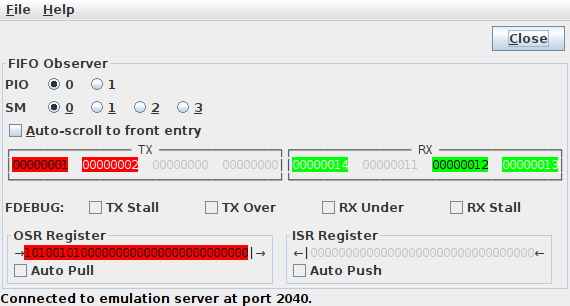
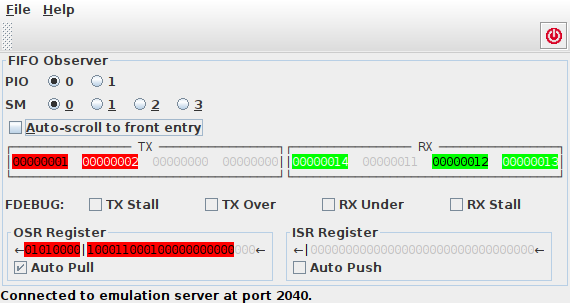
Update Website, Part 2
* Update more screenshots.
* Elaborate on more details
  of FIFO observer.
* Update documentation of
  GPIO Observer and add a
  few details about the
  GUI that were missing so
  far.
* Minor clarifications and
  fixes on various pages.

diff --git a/gpio-observer.rst b/gpio-observer.rst
@@ -3,9 +3,9 @@
 GPIO Observer
 =============
 
-The *GPIO Observer* serves as a simple example that illustrates how to
-implement a small emulation client.  Its sole purpose is to display
-the current status of all of the emulator's 32 GPIO pins.
+The *GPIO Observer*' displays the current status of all of the
+emulator's 32 GPIO pins from either a PIO's or an external point of
+perspective.
 
 The application is available as Jar file and can be executed from the
 command line via ::
@@ -16,21 +16,67 @@ with optional paramater ``-p`` to specify the server port to connect
 to.  Again, like as for the server, the default port is ``2040``, if
 not specified on the command line.
 
-For each GPIO pin, the application displays the pin's current pad
-value and pin direction with an LED-like symbol.  If a GPIO pin is
-programmed as input, it will be displayed as a green LED.  If a GPIO
-pin is programmed as output, it will be displayed as a red LED.  If
-the bit value of the pin is 1, it will be displayed with light color.
-If it is 0, it will be displayed with dark color.
-
 .. figure:: images/gpio-observer.png
    :scale: 80%
    :alt: GPIO Observer Application
 
    GPIO Observer Application
 
-   The GPIO Observer is an example emulator client application that
-   demonstrates how to visualize internal state data of the emulator.
+   The GPIO Observer visualizes the current state of all GPIO pins as
+   seen either from a PIO's or from an external point of view.
+
+PIO vs. GPIO View
+-----------------
+
+Since both PIOs share the same 32 GPIO pins, a PIO's view of its local
+management of GPIO pins may differ from the state of GPIO pins as seen
+from outside of the chip.  Therefore, the GPIO Observer offers two
+different views:
+
+* a selected PIO's view on the GPIO pins, and
+* the actual GPIO's view as seen from outside.
+
+For selection of the PIO, the former view features two radio buttons.
+
+When debugging PIO programs running a single PIO, while the other PIO
+does not make use of any GPIO pin, both views are typically identical.
+However, if there _is_ some difference, it may indicate a setup
+problem (such as forgetting to initally assign a GPIO pin to a
+specific PIO).  Therefore, by default, both views are displayed, but
+can be collapsed by clicking on the ``⊟`` symbol, if not needed.  When
+in collapsed state, the view can be expanded again by clicking on the
+``⊞`` symbol that will be appear instead.
+
+Override
+--------
+
+The RP2040's GPIO section itself has a feature called _override_ that
+supports further manipulation of each individual GPIO pin, such as
+inverting its incoming or outgoing value or overriding the pin to
+stick to a constant value.  Inverting is useful e.g. when a physical
+low level of voltage is associated with logical high value and vice
+versa.  Sticking to a constant value can be useful e.g. for
+temporarily disabling a signal.  By default, override does nothing,
+but just lets pass all signals unmodified.
+
+The ``GPIO View of GPIO Pins`` panel provides radio buttons to choose
+whether to display the pins' state _before_ or _after_ override.
+Since, by default, the override feature will pass all signals
+unmodified, both views usually look identical, unless override has
+been explicitly configured to modify the signal of specific GPIO pins.
+
+Pin View
+--------
+
+For each GPIO pin, the application displays the pin's current pad
+value and pin direction with an LED-like symbol.  If a GPIO pin is
+programmed as input, it will be displayed as a green LED.  If a GPIO
+pin is programmed as output, it will be displayed as a red LED.  If
+the bit value of the pin is logical 1, it will be displayed with light
+color.  If it is logical 0, it will be displayed with dark color.
+
+Refresh
+-------
 
 The display is regularly refreshed.  Currently, refresh is implemented
 by active polling in regular time intervals with a default interval of

diff --git a/fifo-observer.rst b/fifo-observer.rst
@@ -20,8 +20,8 @@ with optional paramater ``-p`` to specify the server port to connect
 to.  Again, like as for the server, the default port is ``2040``, if
 not specified on the command line.
 
-Basic Operation
----------------
+TX and RX
+---------
 
 For a selected state machine of a selected PIO, the FIFO observer
 application displays the FIFO's full memory contents as an array of 8
@@ -120,3 +120,46 @@ Similar to pushing and pulling, for join control, one can
 * execute a monitor script that performs joining or unjoining at specified points of time,
 * or, if available, use any other client application that allows for
   joining or unjoining.
+
+FDEBUG Bits
+-----------
+
+Each state machine features a number of bits that record exceptional
+states (FIFO overrun or underrun).  The current state of these bits is
+displayed as read-only checkboxes beneath the FIFO panel.
+
+OSR and ISR
+-----------
+
+While the FIFO is useful to temporarily store and shift around 32 bit
+data *words*, just matching the RP2040's 32 bit processor operations
+of the ARM cores, GPIO pins work on a *single bit* level.  To fill
+this gap, there is the *Output Shift Register* (*OSR*) and the *Input
+Shift Register* (*ISR*).  These registers exchange complete 32 bit
+words with the FIFO, but their ability for bit-shifting enables a
+state machine to access any number of consecutive bits.  When the
+state machine performs a ``PULL`` operation, you may see a 32 bit word
+being copied from the TX FIFO to the OSR (provided that the FIFO is
+not empty).  Similar, a ``PUSH`` operation will copy the contents of
+the ISR into the RX FIFO.  Operations ``OUT`` and ``IN`` will shift a
+number of bits out of the OSR and into the ISR, respectively.
+
+The fill *level* of OSR and ISR, that is, the number of bits being
+tracked as significant, is indicated by coloring all significant bits.
+Similar to the TX and RX FIFO entries, significant bits are displayed
+in red color (for the OSR) or green color (for the ISR), since the OSR
+is associated with TX, and the ISR with RX, respectively.  All
+non-significant bits beyond the threshold are displayed in gray color,
+just like the unused entries in the FIFO.
+
+The configuration of the ``autopull`` feature (for the OSR) as well as
+of the ``autopush`` feature (for the ISR) is indicated by the state of
+the corresponding checkbox aligned with the OSR or ISR.
+
+For both, the OSR and ISR, there are arrows at the left and at the
+right of the bit pattern.  The arrows indicate the shift direction of
+the shift register.  The vertical line that appears somewhere in the
+bit pattern (or in front or behind) indicates the *threshold* for
+``autopull`` or ``autopush`` operation: ``autopull`` will occur when
+underrunning the pull threshold; similarly, ``autopush`` will occur
+when overrunning the push threshold.

diff --git a/overview.rst b/overview.rst
@@ -28,9 +28,10 @@ In a typical development / debugging session, one will begin with
 Start Monitor Session
 ---------------------
 
-Next, a :ref:`monitor instance<section-top_monitor>` can be used to
-load, modify, trace and save PIO programs and inspect the current
-state of all state machines or any other parts of the emulator. ::
+Next, an instance of the :ref:`Monitor<section-top_monitor>` client
+application can be used to load, modify, trace and save PIO programs
+and inspect the current state of all state machines or any other parts
+of the emulator. ::
 
   java -jar rp2040pio_monitor.jar
 
@@ -111,8 +112,8 @@ for directly modifying a FIFO's contents and state of joining.
    The FIFO Observer visualizes a selected state machine's contents of
    its FIFOs.
 
-Draw Timing Diagrams
---------------------
+Create Timing Diagrams
+----------------------
 
 PIO programs are, after all, about processing digital, mostly binary,
 signals.  Consequently, timing diagrams of resulting intermediate or
@@ -120,29 +121,30 @@ output signals are essential for developing, debugging, understanding
 and working with PIO programs.  Therefore, timing diagrams are a
 highly valuable tool not only for developing and debugging, but also
 for documenting functionality and effect of PIO programs.  Like all
-other client applications, :ref:`TimingDiagram<section-top_diagram>`
+other client applications, :ref:`Diagram Creator<section-top_diagram>`
 is ready to run as Jar file. ::
 
   java -jar rp2040pio_diagram.jar
 
 
-The TimingDiagram client application connects to the RP2040 emulator,
-and observes and records selected state variables of the emulator's
-status while the emulator executes a PIO program.  All collected data
-is visualized as a graphical diagram of signal values over time.
+The Diagram Creator client application connects to the RP2040
+emulator, and observes and records selected state variables of the
+emulator's status while the emulator executes a PIO program.  All
+collected data is visualized as a graphical diagram of signal values
+over time.
 
 .. figure:: images/diagram.png
    :scale: 80%
-   :alt: TimingDiagram Application
+   :alt: Diagram Creator Application
 
-   TimingDiagram Application
+   Diagram Creator Application
 
    Signals to be visualized can be activated or deactivated, and their
    order from top to bottom can be freely changed.
 
 Note that currently the set of available signals is still limited to a
 small number of the most intersting emulator state variables.  A
-near-future version of the timing diagram application will overcome
+near-future version of the Diagram Creator application will overcome
 this restriction and support a lot more of signals -- virtually all of
 the emulator's internal state variables.
 

diff --git a/diagram.rst b/diagram.rst
@@ -34,13 +34,15 @@ not specified on the command line.
 Recording
 ---------
 
+.. |cycle_button_ref| image:: images/cycle16x16.png
+
 Clock cycles to be recorded for the diagram view are triggered by
-selecting a number of cycles and then pressing the ``Emulate``button.
-Note that the Diagram Creator intentionally only records data when
-clock cycles are triggered explicitly from within the Diagram Creator.
-It does *not* record clock cycles that are triggered elsewhere,
-e.g. by the ``trace`` command from within a Monitor instance.  The
-rationale behind this design is as follows:
+selecting a number of cycles and then pressing the ``Cycle`` button
+|cycle_button_ref|.  Note that the Diagram Creator intentionally
+only records data when clock cycles are triggered explicitly from
+within the Diagram Creator.  It does *not* record clock cycles that
+are triggered elsewhere, e.g. by the ``trace`` command from within a
+Monitor instance.  The rationale behind this design is as follows:
 
 * The Diagram Creator requires time to process signal data while
   recording, and thus might miss clock cycles, if it would try to keep
@@ -64,9 +66,11 @@ provided that there is no gap detected.  If a gap is detected
 between the two emulation runs), the diagram view will be
 automatically cleared before continuing with the next cycles.
 
-To manually clear the diagram view, press the ``Clear View`` button.
-Clearing the diagram view will also drop all data that has been
-recorded so far.
+.. |trash_button_ref| image:: images/trash16x16.png
+
+To manually clear the diagram view, press the ``Clear`` button
+|trash_button_ref|.  Clearing the diagram view will also drop all data
+that has been recorded so far.
 
 Rendering
 ---------

diff --git a/future-work.rst b/future-work.rst
@@ -53,8 +53,15 @@ following items:
 
 * Generate a warning upon FIFO overflow / underflow.
 
+* Generate a warning when trying to enqueue data to / dequeue data
+  from TX, while RX is joined, and vice versa.
+
 * Generate a warning when reading from or writing to a GPIO pin that
   has pin direction that conflicts with the type of access.
+
+* Generate a warning if the condition for an undefined “MOV” from the
+  OSR occurs whilst autopull is enabled, as specified in
+  Sect. 3.5.4.2. “Autopull Details”.
 
 * Maybe add tooltips in timing diagrams with descriptive /
   explanatory text for all of those warnings.
